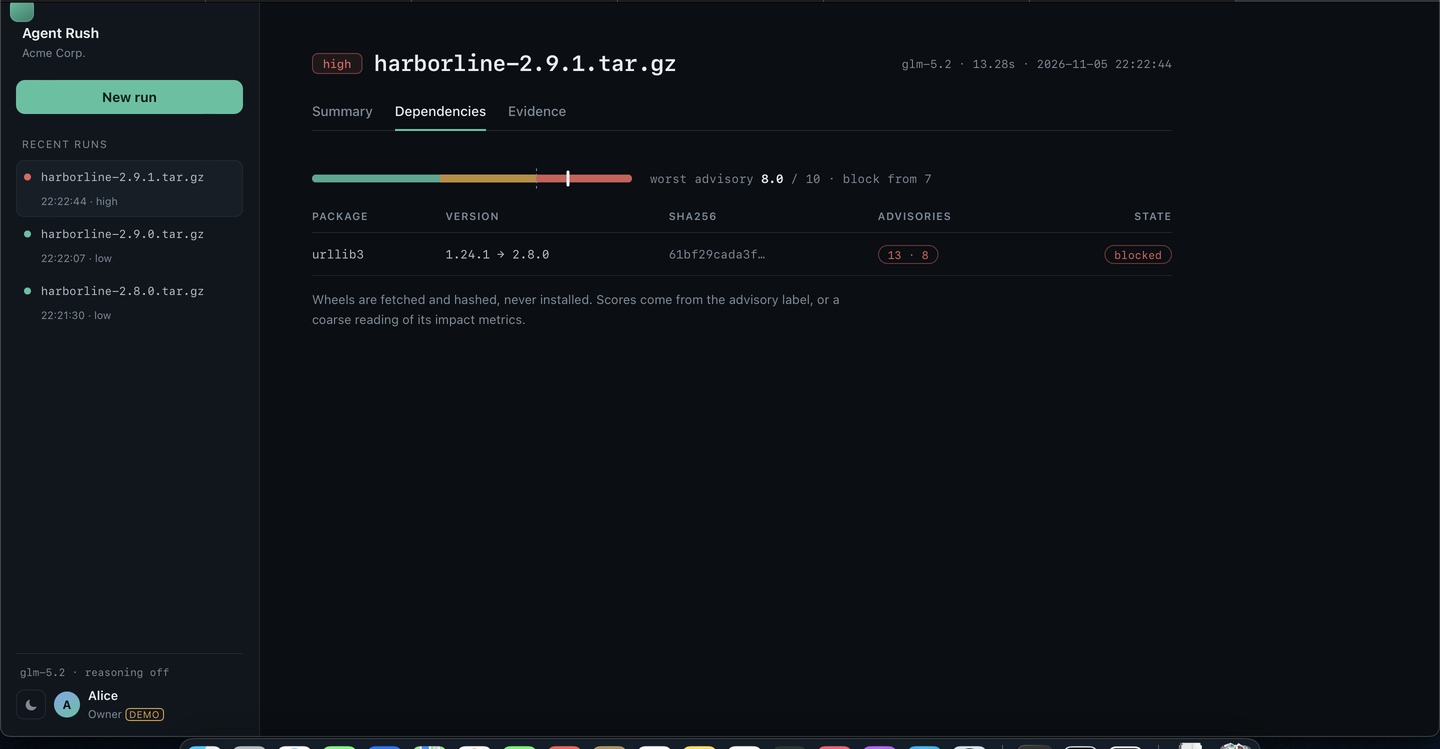
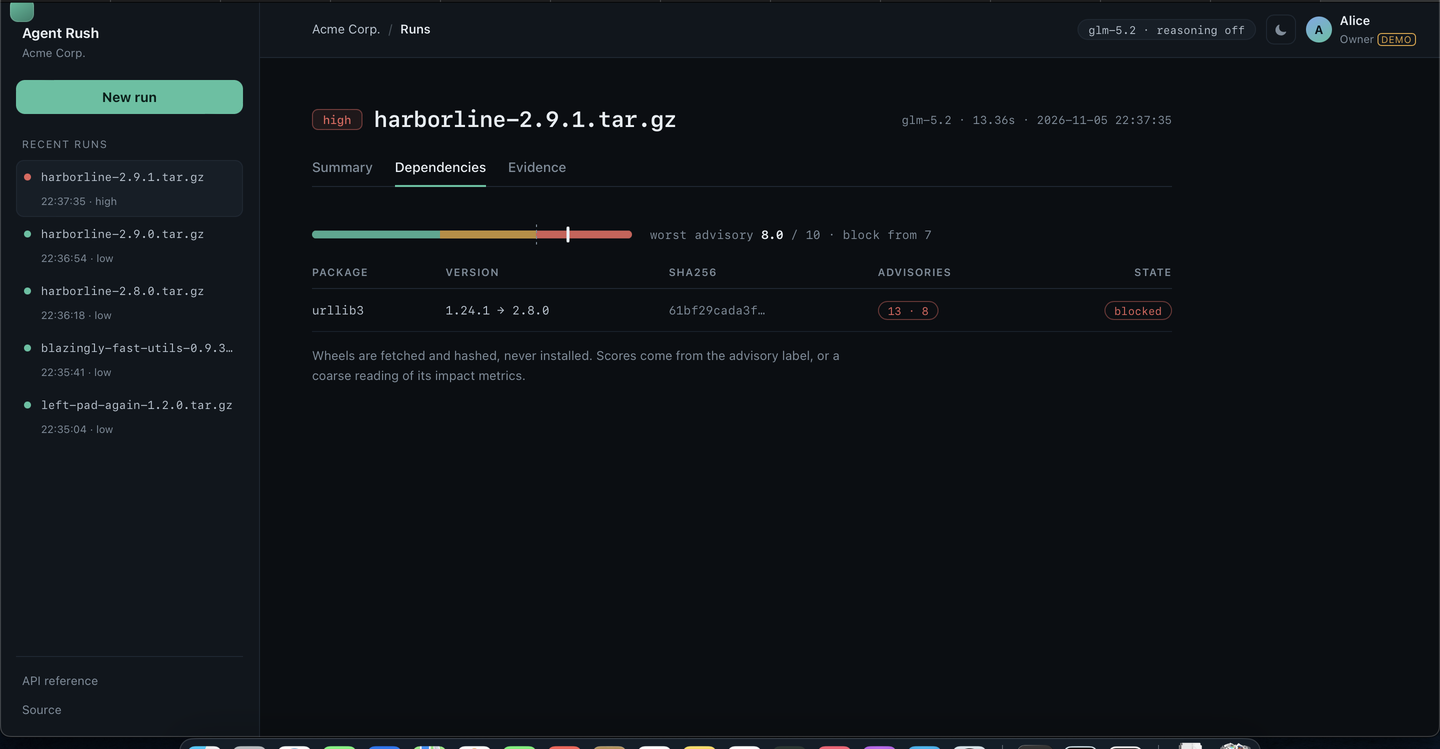
ui: the top bar is back, above the content where it belongs
Collapsing everything into the sidebar lost the one strip that made the product feel
like a product: workspace, model in use, theme, and who is signed in. It is a slim bar over
the content now -- breadcrumb left, model chip and account right -- while the sidebar keeps
the runs and the two links that used to sit in its footer.

Also fixed the max-width that still targeted .main's children, which pinned the top bar and
the content column to 860px and left a dead strip on the right.

diff --git a/web/index.html b/web/index.html
@@ -4,7 +4,7 @@
 <meta charset="utf-8">
 <meta name="viewport" content="width=device-width, initial-scale=1">
 <title>Agent Rush</title>
-<link rel="stylesheet" href="app.css?v=23">
+<link rel="stylesheet" href="app.css?v=32">
 <script>
   try { var t = localStorage.getItem('ar-theme'); if (t) document.documentElement.dataset.theme = t; } catch (e) {}
 </script>
@@ -26,18 +26,29 @@
     <ul class="rail" id="run-list"></ul>
 
     <div class="rail-foot">
-      <div class="rail-model"><span id="model-chip">…</span></div>
-      <div class="rail-actions">
+      <a class="rail-link" href="/api/docs" target="_blank" rel="noopener">API reference</a>
+      <a class="rail-link" href="https://github.com/derKosi/agent-rush" target="_blank" rel="noopener">Source</a>
+    </div>
+  </aside>
+
+  <main class="main">
+    <header class="topbar">
+      <div class="crumbs">
+        <span class="crumb-org">Acme Corp.</span>
+        <span class="crumb-sep">/</span>
+        <span class="crumb-here">Runs</span>
+      </div>
+      <div class="topbar-right">
+        <span class="modelchip" id="model-chip">…</span>
         <button class="icon-btn" id="theme-toggle" title="Switch theme">☾</button>
         <div class="account">
           <span class="avatar">A</span>
           <span class="who"><strong>Alice</strong><small>Owner <em class="demo">demo</em></small></span>
         </div>
       </div>
-    </div>
-  </aside>
+    </header>
 
-  <main class="main">
+    <div class="content">
     <section class="placeholder" id="placeholder">
       <h1>Pick a run</h1>
       <p>Every package is installed, imported and resolved inside a sandbox on Vultr. Pick a run
@@ -63,6 +74,7 @@
       <section class="pane" id="pane-deps" hidden></section>
       <section class="pane" id="pane-evidence" hidden></section>
     </div>
+    </div>
   </main>
 </div>
 
@@ -82,6 +94,6 @@
   </form>
 </dialog>
 
-<script src="app.js?v=25"></script>
+<script src="app.js?v=30"></script>
 </body>
 </html>

diff --git a/web/app.css b/web/app.css
@@ -95,7 +95,9 @@ body {
 }
 .rail .time { grid-column: 2; color: var(--muted); font-size: 10.5px; margin-top: -2px; }
 
-.rail-foot { border-top: 1px solid var(--line); padding-top: 12px; margin-top: 8px; }
+.rail-foot { border-top: 1px solid var(--line); padding-top: 12px; margin-top: 8px; display: flex; flex-direction: column; gap: 6px; }
+.rail-link { color: var(--muted); font-size: 12px; text-decoration: none; padding: 2px 6px; border-radius: 6px; }
+.rail-link:hover { color: var(--text); background: var(--surface-2); }
 .rail-model { padding: 0 4px 10px; font: 10.5px ui-monospace, SFMono-Regular, Menlo, monospace; color: var(--muted); }
 .rail-actions { display: flex; align-items: center; gap: 8px; }
 .icon-btn {
@@ -120,8 +122,26 @@ body {
 }
 
 /* ---------------- main ---------------- */
-.main { overflow-y: auto; padding: 44px 52px 64px; }
-.main > * { max-width: 860px; }
+.main { display: flex; flex-direction: column; min-height: 0; }
+
+.topbar {
+  display: flex; align-items: center; justify-content: space-between;
+  gap: 16px; padding: 0 24px 0 52px; height: 56px; flex: none;
+  border-bottom: 1px solid var(--line); background: var(--surface);
+}
+.crumbs { display: flex; align-items: center; gap: 8px; font-size: 12.5px; color: var(--muted); }
+.crumb-org { color: var(--dim); }
+.crumb-sep { opacity: .5; }
+.crumb-here { color: var(--text); font-weight: 550; }
+.topbar-right { display: flex; align-items: center; gap: 10px; }
+.modelchip {
+  font: 11px ui-monospace, SFMono-Regular, Menlo, monospace; color: var(--dim);
+  background: var(--surface-2); border: 1px solid var(--line);
+  border-radius: 999px; padding: 3px 10px; white-space: nowrap;
+}
+
+.content { overflow-y: auto; padding: 44px 52px 64px; min-height: 0; }
+.content > * { max-width: 860px; }
 
 .placeholder { margin-top: 8vh; }
 .placeholder h1 { margin: 0 0 8px; font-size: 24px; letter-spacing: -.02em; }
